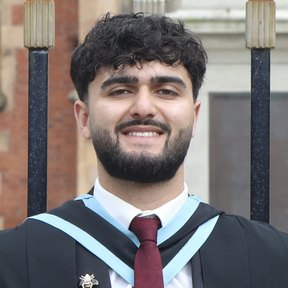
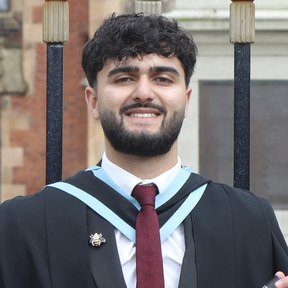
Split founder credentials into shared and individual, and reframe two claims
Both founders were founding engineers at the same agentic AI audit startup, both
hold First-Class Computer Science degrees and both do AI research, but each card
was stating all of that separately. Saying it twice spent the reader's attention
on one fact and made both lists look padded. The overlap is actually the
argument (two engineers with the same foundation) and the differences are the
range, so the structure now says that:

- cards carry only what is true of that person alone
- one "What we both bring" band below states the shared three once
- two hairlines descend from each card centre into the band's top rule, built on
  .founders-grid's own track definition so they stay on the card centres at
  every width instead of drifting off guessed percentages

An SVG fork was tried first. preserveAspectRatio:none stretched it ~14x
horizontally against the vertical and sheared the curves into what read as a
stray box between the cards. The join is hidden below 760px, where the cards
stack and a left-to-right merge would be describing a layout that is no longer
on screen.

Copy:
- "Digital Market Infrastructure at LSEG" said nothing to a prospective client.
  Now "Secure, scalable infrastructure at the London Stock Exchange".
- The AI research line named a specific project. Now the domain only:
  "Specialising in AI security and trust-explicit systems".

Sameer's headshot recropped again to a 1210px source square so his head and
[…]

diff --git a/components/Founders.tsx b/components/Founders.tsx
@@ -1,5 +1,19 @@
-import { founders } from '@/lib/content';
+import { founders, sharedCreds } from '@/lib/content';
 
+/**
+ * Two cards for what each founder brings alone, then one band for what they
+ * both bring.
+ *
+ * The shared credentials used to be repeated inside both cards. Stating them
+ * once and drawing the convergence is the whole point of the section: the
+ * overlap is the argument (two engineers with the same foundation), and the
+ * differences are the range. Duplicated bullets said neither.
+ *
+ * The fork rule between the cards and the band is decorative and hidden from
+ * assistive tech; the "What we both bring" heading carries the meaning. It is
+ * also hidden below 760px, where the cards stack vertically and a left-to-right
+ * merge would be describing a layout that is no longer on screen.
+ */
 export function Founders() {
   return (
     <section className="section-pad" id="founders">
@@ -25,8 +39,6 @@ export function Founders() {
                   <p className="founder-role">Co-founder</p>
                 </div>
               </div>
-              {/* The points are the whole card. A chip row underneath just
-                  restated the same four employers in a second typeface. */}
               <ul className="founder-points">
                 {f.points.map((p) => (
                   <li key={p} dangerouslySetInnerHTML={{ __html: p }} />
@@ -36,10 +48,25 @@ export function Founders() {
           ))}
         </div>
 
-        {/* Deliberately prose, not a third row of heading+paragraph cards. The
-            AI-research point is already on both profiles above; repeating it as
-            its own panel was saying the same thing twice in a tidier font. */}
-        <p className="founders-note" data-reveal style={{ '--d': 3 } as React.CSSProperties}>
+        {/* Two rules descending from each card into the shared band's top edge.
+            Built on the same 2-column grid as .founders-grid so they land on the
+            card centres at every width instead of at guessed percentages. */}
+        <div className="founders-merge" aria-hidden="true"><span /><span /></div>
+
+        <div className="founders-common" data-reveal style={{ '--d': 3 } as React.CSSProperties}>
+          <h3 className="founders-common-label">What we both bring</h3>
+          <ul className="common-list">
+            {sharedCreds.map((c) => (
+              <li key={c.label}>
+                <span className="common-label">{c.label}</span>
+                <span className="common-detail">{c.detail}</span>
+              </li>
+            ))}
+          </ul>
+        </div>
+
+        {/* Deliberately prose, not another panel row. */}
+        <p className="founders-note" data-reveal style={{ '--d': 4 } as React.CSSProperties}>
           A small team of developers works with us on delivery. We also build for load, because most
           of what we get called in to fix ran fine until more than a handful of people used it at once.
         </p>

diff --git a/app/globals.css b/app/globals.css
@@ -809,6 +809,58 @@
     width:5px; height:1px; background:var(--accent);
   }
 
+  /* =================== Founders: shared vs individual ===================
+     The two cards carry only what is true of one person. Everything both of
+     them hold is stated once, below, joined to the cards by a drawn fork.
+     All colour comes from the theme block; nothing here is a literal. */
+
+  /* The join. Two hairlines descending from the centre of each card into the
+     top rule of the shared band. It reuses .founders-grid's own track
+     definition, so the lines sit under the card centres at every width rather
+     than at percentages that drift. An SVG was tried first and was a mistake:
+     preserveAspectRatio:none stretched the horizontal scale ~14x against the
+     vertical and the curves sheared into what looked like a stray box.
+     Decorative, so aria-hidden, and hidden below 760px where the cards stack
+     and a left-to-right merge would describe a layout no longer on screen. */
+  .founders-merge{
+    display:grid; grid-template-columns:repeat(2,1fr); gap:18px;
+    height:26px; margin-top:2px;
+  }
+  .founders-merge span{
+    width:1px; height:100%; margin:0 auto;
+    background:linear-gradient(to bottom, transparent, var(--accent-line));
+  }
+  @media (max-width:760px){ .founders-merge{ display:none; } }
+
+  .founders-common{
+    border-top:1px solid var(--accent-line);
+    padding-top:clamp(20px,3vw,28px);
+  }
+  @media (max-width:760px){ .founders-common{ margin-top:clamp(26px,6vw,34px); } }
+  .founders-common-label{
+    font-family:var(--font-display); font-size:.72rem; font-weight:700;
+    letter-spacing:.18em; text-transform:uppercase; color:var(--accent-deep);
+  }
+  .common-list{
+    display:grid; grid-template-columns:repeat(3,minmax(0,1fr));
+    gap:clamp(18px,3vw,34px); margin-top:clamp(16px,2.4vw,22px);
+  }
+  /* One column below 760px. The middle step at 3 -> 1 rather than 3 -> 2 is
+     deliberate: two-up leaves a lone orphan on the second row. */
+  @media (max-width:760px){
+    .common-list{ grid-template-columns:1fr; gap:16px; }
+  }
+  .common-list li{ display:flex; flex-direction:column; gap:5px; }
+  @media (max-width:760px){
+    /* Stacked, each item gets a rule so the group still reads as a set. */
+    .common-list li{ padding-left:16px; border-left:1px solid var(--accent-line); }
+  }
+  .common-label{
+    font-family:var(--font-display); font-size:.95rem; font-weight:700;
+    letter-spacing:-.01em; color:var(--ink);
+  }
+  .common-detail{ color:var(--ink-soft); font-size:.88rem; line-height:1.6; }
+
   /* Founders closing line — prose, deliberately not another card row. */
   .founders-note{
     margin-top:clamp(28px,4vw,40px);

diff --git a/lib/content.ts b/lib/content.ts
@@ -75,17 +75,36 @@ export const phases = [
   },
 ] as const;
 
+/**
+ * Founder credentials, split by whether both of them hold it.
+ *
+ * `shared` is stated ONCE. It used to be repeated inside both cards, which
+ * spent the reader's attention twice on the same fact and made the two lists
+ * look padded. `points` is now only what is true of that person alone.
+ */
+export const sharedCreds = [
+  {
+    label: 'Agentic AI, in production',
+    detail: 'Founding engineers at an agentic AI audit startup serving enterprise clients',
+  },
+  {
+    label: 'AI research',
+    detail: 'Specialising in AI security and trust-explicit systems',
+  },
+  {
+    label: 'First-Class Computer Science',
+    detail: 'BSc and MEng',
+  },
+] as const;
+
 export const founders = [
   {
     slug: 'sameer',
     monogram: 'SG',
     name: 'Sameer Gul',
     points: [
-      'Digital Market Infrastructure at <strong>LSEG</strong>',
+      'Secure, scalable infrastructure at the <strong>London Stock Exchange</strong>',
       'Software engineering at <strong>CME Group</strong>, on the cloud and monitoring stack behind live market data',
-      'Founding engineer at an agentic AI audit startup serving enterprise clients',
-      'First-Class BSc Computer Science',
-      'AI research: blockchain-anchored provenance for open-source AI models',
     ],
   },
   {
@@ -95,8 +114,6 @@ export const founders = [
     points: [
       'Software engineering at <strong>Squarespace</strong>',
       'Operations at <strong>Amazon</strong>',
-      'First-Class MEng Computer Science',
-      'AI research: LLM-assisted software sustainability, runner-up at the 2026 Megaw Lecture in front of a panel including BT Digital Data &amp; AI',
     ],
   },
 ] as const;
